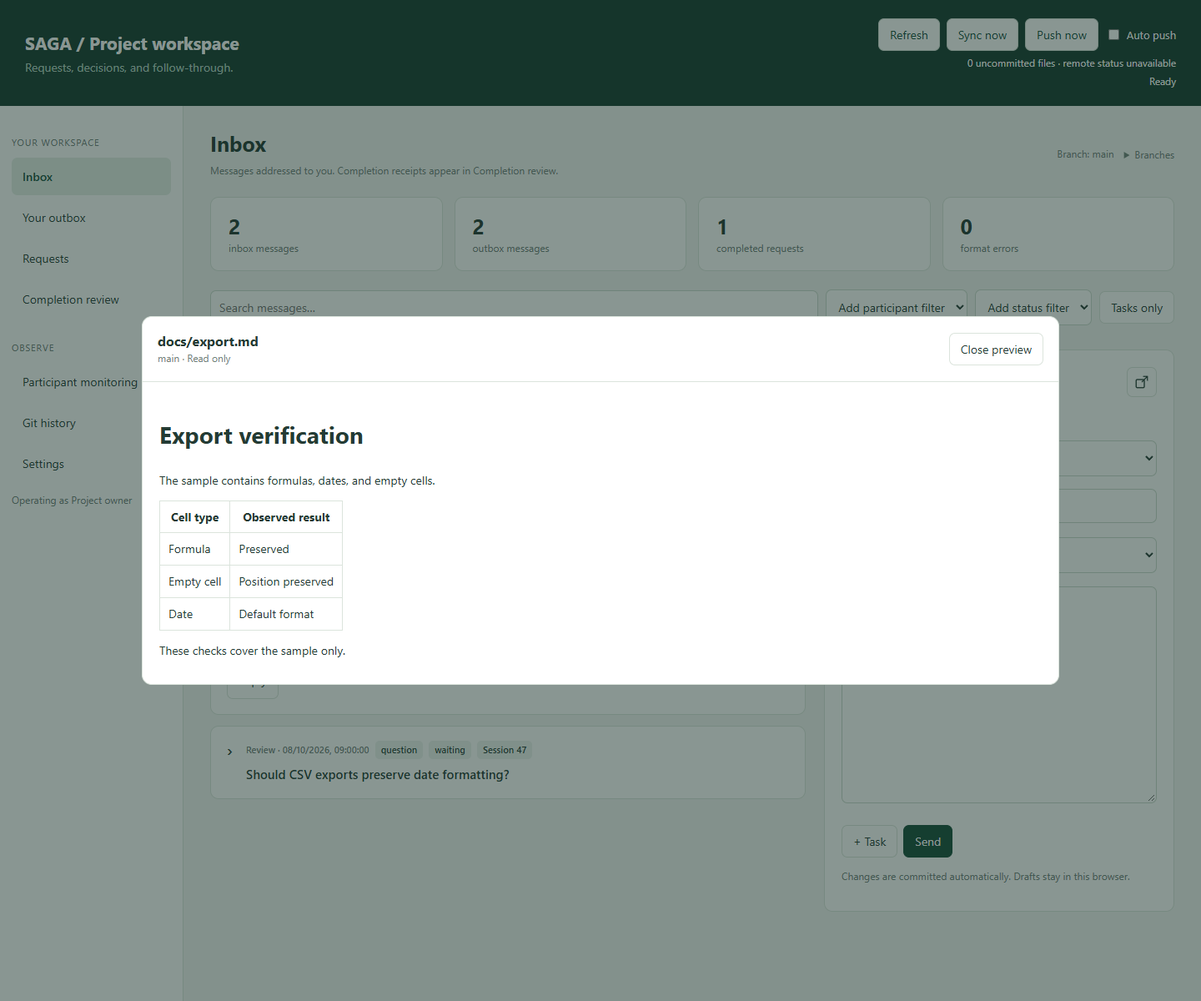
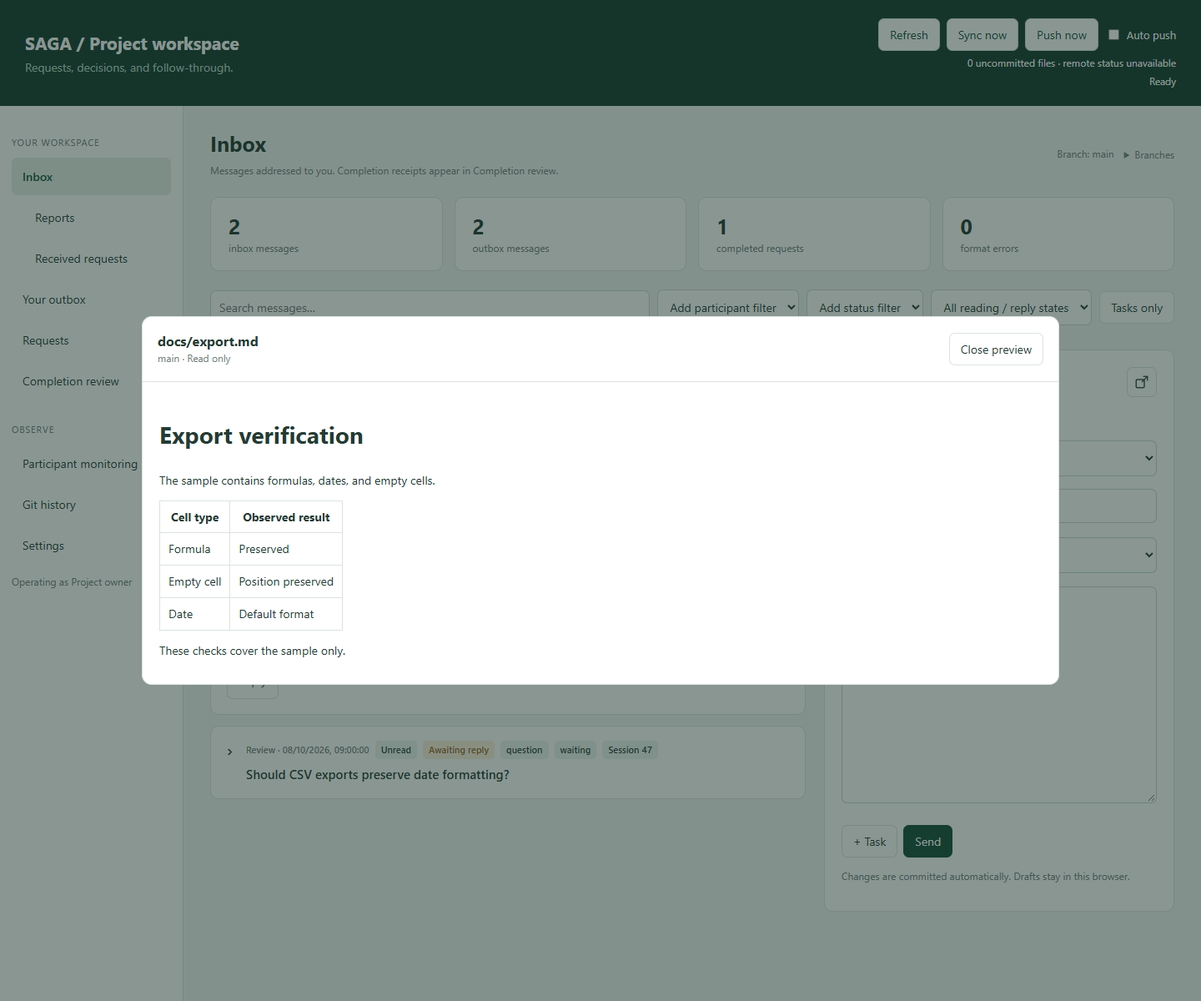
Add inbox report and request views with reading and reply states

diff --git a/src/dashboard.html b/src/dashboard.html
@@ -13,9 +13,9 @@ header button{color:var(--ink)}
 .participant-field{display:flex;flex-direction:column;gap:6px;font-size:12px}.participant-wide{grid-column:1/-1}.participant-row{align-items:end;padding:14px;border:1px solid var(--line);border-radius:8px}.participant-field input{width:100%}
 </style></head><body>
 <header><div><h1 id="workspace">SAGA</h1><p>Requests, decisions, and follow-through.</p></div><div class="header-controls"><div class="header-actions"><button id="refreshButton">Refresh</button><button id="syncButton">Sync now</button><button id="pushHeader">Push now</button><label id="gitControls" hidden><input id="autoPushHeader" type="checkbox"> Auto push</label></div><div id="gitStatus" class="sync" aria-live="polite"></div><div id="sync" class="sync" role="status">Connecting…</div></div></header>
-<div class="shell"><aside id="navigation"><p class="caption">Your workspace</p><button data-view="inbox">Inbox</button><button data-view="outbox">Your outbox</button><button data-view="requests">Requests</button><button data-view="approvals">Completion review</button><p class="caption" style="margin-top:28px">Observe</p><button data-view="monitor">Participant monitoring</button><button data-view="history">Git history</button><button data-view="settings">Settings</button><p class="hint" id="identity"></p></aside>
+<div class="shell"><aside id="navigation"><p class="caption">Your workspace</p><button data-view="inbox">Inbox</button><button data-inbox="report" style="padding-left:28px">Reports</button><button data-inbox="requests" style="padding-left:28px">Received requests</button><button data-view="outbox">Your outbox</button><button data-view="requests">Requests</button><button data-view="approvals">Completion review</button><p class="caption" style="margin-top:28px">Observe</p><button data-view="monitor">Participant monitoring</button><button data-view="history">Git history</button><button data-view="settings">Settings</button><p class="hint" id="identity"></p></aside>
 <main><div class="heading"><div><h2 id="title">Inbox</h2><div class="muted" id="subtitle"></div></div><div class="branch-position"><span id="branch" class="muted"></span><details id="branchPanel"><summary id="branchSummary">Branches</summary><div class="branch-popover"><p class="hint" id="branchRefreshHint">Compared with your current inbox.</p><button id="checkBranches">Fetch and check branches</button><div id="branchList"></div></div></details></div></div><div id="notice" class="notice" role="alert"></div><div class="stats" id="stats"></div>
-<div class="toolbar" id="toolbar"><input id="search" placeholder="Search messages…" aria-label="Search"><select id="participant" aria-label="Filter participant"></select><select id="status" aria-label="Filter status"><option value="all">All statuses</option><option>untriaged</option><option>open</option><option>in_progress</option><option>waiting</option><option>blocked</option><option>done</option></select><button id="taskFilter">Tasks only</button><div id="filterTags" class="filter-tags"></div></div>
+<div class="toolbar" id="toolbar"><input id="search" placeholder="Search messages…" aria-label="Search"><select id="participant" aria-label="Filter participant"></select><select id="status" aria-label="Filter status"><option value="all">All statuses</option><option>untriaged</option><option>open</option><option>in_progress</option><option>waiting</option><option>blocked</option><option>done</option></select><select id="attention" aria-label="Filter reading and replies"><option value="all">All reading / reply states</option><option value="unread">Unread</option><option value="read">Read</option><option value="unanswered">Awaiting reply</option><option value="replied">Replied</option></select><button id="taskFilter">Tasks only</button><div id="filterTags" class="filter-tags"></div></div>
 <div class="columns" id="columns"><section id="feed"></section><section class="card compose" id="compose" inert><div id="composeHandle" class="compose-heading"><h3>New message</h3><button id="detachCompose" aria-label="Float composer" title="Float composer"><svg viewBox="0 0 24 24" width="18" height="18" aria-hidden="true" fill="none" stroke="currentColor" stroke-width="1.8"><rect x="3" y="8" width="13" height="13" rx="2"/><path d="M14 3h7v7M21 3l-9 9"/></svg></button></div><p class="hint" id="replyHint">Send from your configured identity.</p><select id="recipient" aria-label="Recipient"></select><input id="subject" placeholder="Subject" maxlength="200" aria-label="Subject"><div class="pair"><select id="kind" aria-label="Message kind"><option>request</option><option>question</option><option>decision</option><option>report</option><option>reply</option></select><select id="priority" aria-label="Priority"><option>normal</option><option>low</option><option>high</option><option>urgent</option></select></div><textarea id="message" placeholder="Write a message…&#10;&#10;- [ ] A task to follow" aria-label="Message body"></textarea><div class="actions"><button id="task">+ Task</button><button id="cancelReply" hidden>Cancel reply</button><button class="primary" id="send">Send</button></div><p class="hint" id="savePolicy"></p></section></div></main></div>
 <dialog id="fileViewer" aria-label="File preview"><div class="file-heading"><div><h3 id="fileTitle"></h3><span id="fileContext" class="hint"></span></div><button id="closeFile">Close preview</button></div><div id="fileContent" class="body"></div></dialog>
 <dialog id="editor"><h3>Edit your message</h3><p class="hint">Editing invalidates any completion receipt for an older version.</p><textarea id="editBody" aria-label="Edit message"></textarea><div class="actions"><button id="cancelEdit">Cancel</button><button id="saveEdit" class="primary">Save and commit</button></div></dialog>
@@ -35,11 +35,13 @@ function notice(s){$('notice').textContent=s;$('notice').style.display=s?'block'
 function choices(id,people,all=false){const old=$(id).value;$(id).innerHTML=(all?'<option value="all">All participants</option>':'')+people.map(p=>`<option value="${esc(p.id)}">${esc(p.label)}</option>`).join('');if([...$(id).options].some(o=>o.value===old))$(id).value=old;}
 function body(text,record=null,editable=false){return renderMarkdown(text,record,editable);}
 
-let messageSeen={};
+let messageSeen={},messageRead={},inboxKind='all';
 function seenKey(context){return 'saga:seen:'+JSON.stringify([context.workspaceRoot,context.config.identity]);}
-function trackMessages(context){if(!context.config)return;const key=seenKey(context);try{const stored=localStorage.getItem(key);messageSeen=stored?JSON.parse(stored):Object.fromEntries(context.messages.filter(r=>r.meta.to===context.config.identity).map(r=>[r.meta.id,r.sha256]));if(!stored)localStorage.setItem(key,JSON.stringify(messageSeen));}catch{messageSeen={};}}
-function messageCard(r,open=false,nested=false){const m=r.meta,own=m.from===state.config.identity,editable=own&&view!=='monitor',replies=nested?[]:state.messages.filter(x=>x.meta.reply_to===m.id&&x.meta.kind!=='receipt');return `<details class="card message-card" data-message-id="${esc(m.id)}" ${open?'open':''}><summary><div class="summary-content"><div class="meta-row"><span class="tag">${esc(nested||view==='monitor'?label(m.from)+' → '+label(m.to):view==='requests'?(own?'To '+label(m.to):'From '+label(m.from)):view==='inbox'?label(m.from):label(m.to))} · ${date(m.created)}</span>${m.to===state.config.identity&&messageSeen[m.id]!==r.sha256?'<span class="badge warn" data-unread>'+(messageSeen[m.id]?'Updated':'New')+'</span>':''}<span class="badge">${esc(m.kind)}</span><span class="badge">${esc(m.status.replaceAll('_',' '))}</span>${m.session?'<span class="badge">Session '+esc(m.session)+'</span>':''}${m.priority!=='normal'?'<span class="badge warn">'+esc(m.priority)+'</span>':''}</div><div class="message-title">${inline(m.title)}</div></div></summary><div class="body">${body(r.body,r,editable)}<p class="hint">${esc(m.id)}${m.reply_to?' · reply to '+esc(m.reply_to):''}</p><div class="actions">${editable?`<button data-edit="${esc(m.id)}">Edit</button><select data-status="${esc(m.id)}" aria-label="Message status">${['untriaged','open','in_progress','waiting','blocked','done'].map(s=>'<option '+(s===m.status?'selected':'')+'>'+s+'</option>').join('')}</select><button class="danger" data-close="${esc(m.id)}">Close and remove</button>`:m.to===state.config.identity&&view!=='monitor'?`<button data-reply="${esc(m.id)}">Reply</button>`:''}</div>${replies.length?'<div class="replies"><p class="caption">Replies</p>'+replies.map(x=>messageCard(x,false,true)).join('')+'</div>':''}</div></details>`;}
-function matches(r){const q=$('search').value.toLowerCase();const person=view==='inbox'?r.meta.from:view==='outbox'?r.meta.to:view==='requests'?(r.meta.to===state.config.identity?r.meta.from:r.meta.to):null;return (!participantFilters.size||(person?participantFilters.has(person):[r.meta.from,r.meta.to].some(id=>participantFilters.has(id))))&&(!statusFilters.size||statusFilters.has(r.meta.status))&&(!tasksOnly||/^\s*(?:[-*+]|\d+[.)]) \[[ xX]\]/m.test(r.body))&&(r.meta.title+' '+r.body+' '+r.meta.id+' '+(r.meta.session||'')).toLowerCase().includes(q);}
+function trackMessages(context){if(!context.config)return;const key=seenKey(context);try{messageRead=JSON.parse(localStorage.getItem(key+':read')||'{}');const stored=localStorage.getItem(key);messageSeen=stored?JSON.parse(stored):Object.fromEntries(context.messages.filter(r=>r.meta.to===context.config.identity).map(r=>[r.meta.id,r.sha256]));if(!stored)localStorage.setItem(key,JSON.stringify(messageSeen));}catch{messageSeen={};}}
+function hasReply(r){return state.messages.some(x=>x.meta.reply_to===r.meta.id&&x.meta.from===r.meta.to&&x.meta.to===r.meta.from&&x.meta.kind!=='receipt');}
+function isRead(r){return messageRead[r.meta.id]===r.sha256;}
+function messageCard(r,open=false,nested=false){const m=r.meta,own=m.from===state.config.identity,editable=own&&view!=='monitor',replies=nested?[]:state.messages.filter(x=>x.meta.reply_to===m.id&&x.meta.kind!=='receipt');return `<details class="card message-card" data-message-id="${esc(m.id)}" ${open?'open':''}><summary><div class="summary-content"><div class="meta-row"><span class="tag">${esc(nested||view==='monitor'?label(m.from)+' → '+label(m.to):view==='requests'?(own?'To '+label(m.to):'From '+label(m.from)):view==='inbox'?label(m.from):label(m.to))} · ${date(m.created)}</span>${m.to===state.config.identity&&messageSeen[m.id]!==r.sha256?'<span class="badge warn" data-unread>'+(messageSeen[m.id]?'Updated':'New')+'</span>':''}${m.to===state.config.identity?'<span class="badge" data-reading>'+ (isRead(r)?'Read':'Unread')+'</span>':''}${hasReply(r)?'<span class="badge" data-replied>Replied</span>':['request','question'].includes(m.kind)?'<span class="badge warn">Awaiting reply</span>':''}<span class="badge">${esc(m.kind)}</span><span class="badge">${esc(m.status.replaceAll('_',' '))}</span>${m.session?'<span class="badge">Session '+esc(m.session)+'</span>':''}${m.priority!=='normal'?'<span class="badge warn">'+esc(m.priority)+'</span>':''}</div><div class="message-title">${inline(m.title)}</div></div></summary><div class="body">${body(r.body,r,editable)}<p class="hint">${esc(m.id)}${m.reply_to?' · reply to '+esc(m.reply_to):''}</p><div class="actions">${editable?`<button data-edit="${esc(m.id)}">Edit</button><select data-status="${esc(m.id)}" aria-label="Message status">${['untriaged','open','in_progress','waiting','blocked','done'].map(s=>'<option '+(s===m.status?'selected':'')+'>'+s+'</option>').join('')}</select><button class="danger" data-close="${esc(m.id)}">Close and remove</button>`:m.to===state.config.identity&&view!=='monitor'?`<button data-reply="${esc(m.id)}">Reply</button>`:''}</div>${replies.length?'<div class="replies"><p class="caption">Replies</p>'+replies.map(x=>messageCard(x,false,true)).join('')+'</div>':''}</div></details>`;}
+function matches(r){const q=$('search').value.toLowerCase();const person=view==='inbox'?r.meta.from:view==='outbox'?r.meta.to:view==='requests'?(r.meta.to===state.config.identity?r.meta.from:r.meta.to):null;const attention=$('attention').value;return (attention==='all'||attention==='read'&&r.meta.to===state.config.identity&&isRead(r)||attention==='unread'&&r.meta.to===state.config.identity&&!isRead(r)||attention==='replied'&&hasReply(r)||attention==='unanswered'&&['request','question'].includes(r.meta.kind)&&!hasReply(r))&&(!participantFilters.size||(person?participantFilters.has(person):[r.meta.from,r.meta.to].some(id=>participantFilters.has(id))))&&(!statusFilters.size||statusFilters.has(r.meta.status))&&(!tasksOnly||/^\s*(?:[-*+]|\d+[.)]) \[[ xX]\]/m.test(r.body))&&(r.meta.title+' '+r.body+' '+r.meta.id+' '+(r.meta.session||'')).toLowerCase().includes(q);}
 function renderFilters(){$('filterTags').innerHTML=[...participantFilters].map(id=>'<button data-filter="participant" data-value="'+esc(id)+'">'+esc(label(id))+' ×</button>').join('')+[...statusFilters].map(id=>'<button data-filter="status" data-value="'+esc(id)+'">'+esc(id.replaceAll('_',' '))+' ×</button>').join('')+((participantFilters.size||statusFilters.size)?'<button id="clearFilters">Clear filters</button>':'');}
 function renderBranches(){const list=[...(state.branches||[])].sort((a,b)=>((b.newMessages||0)+(b.updatedMessages||0))-((a.newMessages||0)+(a.updatedMessages||0))||a.name.localeCompare(b.name));const total=list.reduce((n,b)=>n+(b.newMessages||0)+(b.updatedMessages||0),0);$('branchSummary').textContent=total?total+' updates on other branches':'Branches';$('branchSummary').classList.toggle('has-updates',total>0);$('branchRefreshHint').textContent=state.branchRefresh?.error?'Refresh failed: '+state.branchRefresh.error:state.branchRefresh?.last?'Last remote check: '+new Date(state.branchRefresh.last).toLocaleString('en-GB'):'Remote results reflect the last fetch. Compared with your current inbox.';$('branchList').innerHTML=list.map(b=>'<div class="branch-row"><span><strong>'+esc(b.name)+'</strong> · '+(b.error?esc(b.error):b.newMessages+' new · '+b.updatedMessages+' updated')+'</span><button data-switch-branch="'+esc(b.ref)+'" '+(b.error?'disabled':'')+'>Switch</button></div>').join('')||'<p class="hint">No other discovered mailbox branches.</p>';}
 
@@ -48,7 +50,7 @@ function render(){
  $('branchPanel').hidden=!state.config.discoverBranches;$('pushHeader').disabled=false;$('navigation').hidden=false;$('gitControls').hidden=false;const g=state.git;if(g){$('gitStatus').textContent=g.changedFiles+' uncommitted files · '+(g.ahead===null?'remote status unavailable':g.ahead+' commits to push · '+g.behind+' behind')+(state.publicationHold?(g.ahead===0?' · auto push paused':' · publication paused'):'');$('autoPushHeader').checked=state.config.autoPush;}
  const c=state.config,me=c.identity;$('savePolicy').textContent=(c.autoCommit?'Changes are committed automatically.':'Changes are saved to files; commit them when ready.')+' Drafts stay in this browser.';$('saveEdit').textContent=c.autoCommit?'Save and commit':'Save changes';document.title='SAGA · '+c.title;$('workspace').textContent='SAGA / '+c.title;$('identity').textContent='Operating as '+label(me);$('branch').textContent='Branch: '+state.branch;
  const titles={requests:['Requests','Standalone requests and questions addressed to you or sent by you. Reports remain in Inbox and Your outbox.'],inbox:['Inbox','Messages addressed to you. Completion receipts appear in Completion review.'],outbox:['Your outbox','You own these requests and decide when to remove them.'],approvals:['Completion review','Receipts certify an exact message version. Review the work before cleanup.'],monitor:['Participant monitoring','Read-only exchanges between other participants.'],history:['Git history','Inspect mailbox snapshots before or after a commit.'],settings:['Settings','Configure this workspace and every automatic action.']};
- $('title').textContent=titles[view][0];$('subtitle').textContent=titles[view][1];document.querySelectorAll('[data-view]').forEach(b=>b.classList.toggle('active',b.dataset.view===view));
+ $('title').textContent=view==='inbox'&&inboxKind!=='all'?(inboxKind==='report'?'Reports':'Received requests'):titles[view][0];document.querySelectorAll('[data-inbox]').forEach(b=>b.classList.toggle('active',view==='inbox'&&b.dataset.inbox===inboxKind));$('subtitle').textContent=titles[view][1];document.querySelectorAll('[data-view]').forEach(b=>b.classList.toggle('active',b.dataset.view===view&&(view!=='inbox'||inboxKind==='all')));
  choices('participant',c.participants,true);$('participant').options[0].textContent='Add participant filter';$('status').options[0].textContent='Add status filter';renderFilters();renderBranches();choices('recipient',c.participants.filter(p=>p.id!==me));const outgoing=state.messages.filter(r=>r.meta.from===me&&r.meta.kind!=='receipt'),incoming=state.messages.filter(r=>r.meta.to===me&&r.meta.kind!=='receipt'),ready=state.candidates.filter(r=>r.eligible);
  document.querySelector('[data-view="monitor"]').hidden=!c.showMonitoring;
  $('stats').innerHTML=[[incoming.length,'inbox messages'],[outgoing.length,'outbox messages'],[ready.length,'completed requests'],[state.errors.length,'format errors']].map(([n,t])=>`<div class="stat"><strong>${n}</strong><span class="muted">${t}</span></div>`).join('');
@@ -57,7 +59,7 @@ function render(){
  if(view==='settings'){$('feed').innerHTML=renderSettings(c);return;}
  if(view==='approvals'){$('feed').innerHTML='<p class="hint">Cleanup policy: '+esc(c.cleanup)+'. Each receipt includes the agent’s completion summary.</p>'+state.candidates.map(a=>`<details class="card" open><summary><span class="tag">${esc(label(a.receipt.meta.from))} · ${date(a.receipt.meta.created)}</span>${inline(a.request?.meta.title||a.receipt.meta.title)} <span class="badge ${a.eligible?'':'warn'}">${a.eligible?'Ready for cleanup':esc(a.reason)}</span></summary><div class="body"><p class="caption">Completion summary</p>${body(a.receipt.body)}${a.request?'<details><summary>Original request</summary>'+body(a.request.body)+'</details>':''}<div class="actions">${a.eligible&&c.cleanup!=='off'?'<button class="primary" data-approve="'+esc(a.receipt.meta.id)+'">Approve and clean up</button>':''}<button data-dismiss="${esc(a.receipt.meta.id)}">Dismiss receipt</button></div></div></details>`).join('');if(!state.candidates.length)$('feed').innerHTML+='<div class="card empty">No completion receipts yet.</div>';return;}
  if(view==='history'){renderHistory();return;}
- const records=(view==='inbox'?incoming:view==='outbox'?outgoing:view==='requests'?state.messages.filter(r=>['request','question'].includes(r.meta.kind)&&(r.meta.to===me||r.meta.from===me)):state.messages.filter(r=>r.meta.from!==me&&r.meta.to!==me)).filter(matches).sort((a,b)=>b.meta.created.localeCompare(a.meta.created));
+ const records=(view==='inbox'?incoming.filter(r=>inboxKind==='all'||inboxKind==='report'&&r.meta.kind==='report'||inboxKind==='requests'&&['request','question'].includes(r.meta.kind)):view==='outbox'?outgoing:view==='requests'?state.messages.filter(r=>['request','question'].includes(r.meta.kind)&&(r.meta.to===me||r.meta.from===me)):state.messages.filter(r=>r.meta.from!==me&&r.meta.to!==me)).filter(matches).sort((a,b)=>b.meta.created.localeCompare(a.meta.created));
  const pages=Math.max(1,Math.ceil(records.length/c.pageSize));pageIndex=Math.min(pageIndex,pages-1);
  $('feed').innerHTML=records.slice(pageIndex*c.pageSize,(pageIndex+1)*c.pageSize).map((r,i)=>messageCard(r,i<c.defaultExpanded)).join('')+(records.length>c.pageSize?'<div class="actions"><button id="previousPage" '+(pageIndex===0?'disabled':'')+'>Previous</button><span class="hint">Page '+(pageIndex+1)+' of '+pages+' · '+records.length+' messages</span><button id="nextPage" '+(pageIndex===pages-1?'disabled':'')+'>Next</button></div>':'');if(!$('feed').innerHTML)$('feed').innerHTML='<div class="card empty">No messages match this view.</div>';
 }
@@ -67,7 +69,8 @@ function scheduleRefresh(){clearTimeout(refreshTimer);if(state?.config?.refreshS
 async function mutate(route,data){if(busy)return false;busy=true;$('send').disabled=true;notice('');try{const result=await api(route,data);historyState=null;if(result.sync?.state==='error')notice('Saved locally. Synchronization failed: '+result.sync.message);return true;}catch(e){notice(e.message);return false;}finally{busy=false;$('send').disabled=false;await refresh(true);}}
 function confirmAction(title,text,fn){confirmation=fn;$('confirmTitle').textContent=title;$('confirmText').textContent=text;$('confirmation').showModal();}
 $('cancelConfirm').onclick=()=>{$('confirmation').close();confirmation=null;};$('acceptConfirm').onclick=()=>{$('confirmation').close();const fn=confirmation;confirmation=null;fn?.();};
-$('navigation').onclick=async e=>{const b=e.target.closest('[data-view]');if(!b)return;view=b.dataset.view;pageIndex=0;render();if(view==='history'){try{historyState=await api('history',{});if(view==='history')renderHistory();}catch(e){notice(e.message);}}};
+$('navigation').onclick=async e=>{const b=e.target.closest('[data-view],[data-inbox]');if(!b)return;inboxKind=b.dataset.inbox||'all';view=b.dataset.inbox?'inbox':b.dataset.view;pageIndex=0;render();if(view==='history'){try{historyState=await api('history',{});if(view==='history')renderHistory();}catch(e){notice(e.message);}}};
+$('attention').onchange=()=>{pageIndex=0;render();};
 $('search').oninput=()=>{pageIndex=0;render();};$('participant').onchange=()=>{if($('participant').value!=='all')participantFilters.add($('participant').value);$('participant').value='all';pageIndex=0;render();};$('status').onchange=()=>{if($('status').value!=='all')statusFilters.add($('status').value);$('status').value='all';pageIndex=0;render();};$('taskFilter').onclick=()=>{tasksOnly=!tasksOnly;render();};
 $('filterTags').onclick=e=>{const b=e.target.closest('button');if(!b)return;if(b.id==='clearFilters'){participantFilters.clear();statusFilters.clear();}else (b.dataset.filter==='participant'?participantFilters:statusFilters).delete(b.dataset.value);pageIndex=0;render();};
 $('checkBranches').onclick=async()=>{if(busy)return;$('checkBranches').disabled=true;try{await api('branches',{fetch:true});await refresh(true);}catch(e){notice(e.message);}finally{$('checkBranches').disabled=false;}};
@@ -87,7 +90,7 @@ function clearReply(){replyTo=null;$('replyHint').textContent='Send from your co
 $('cancelReply').onclick=()=>{clearReply();saveDraft();};
 $('send').onclick=async()=>{const draft={text:$('message').value,title:$('subject').value,to:$('recipient').value,kind:$('kind').value,priority:$('priority').value,replyTo};saveDraft();const key=draftKey();localStorage.setItem(key+':last-send',JSON.stringify({...draft,savedAt:new Date().toISOString()}));const f=state.messages.find(r=>r.meta.from===state.config.identity&&r.meta.kind!=='receipt');if(await mutate('message',{to:draft.to,title:draft.title,text:draft.text,kind:draft.kind,priority:draft.priority,reply_to:draft.replyTo,version:f?.fileVersion??state.outboxVersion??null})){if($('message').value===draft.text&&$('subject').value===draft.title){$('message').value='';$('subject').value='';clearReply();localStorage.removeItem(key);}notice(state.config.autoPush?(state.git?.ahead===0?'Message published.':state.sync.state==='error'?'Message committed locally; automatic publication failed: '+state.sync.message:state.sync.message):state.config.autoCommit?'Message committed locally. Automatic push is off.':'Message saved to your outbox. Commit and push it to publish.');}};
 
-$('feed').addEventListener('click',e=>{const summary=e.target.closest('.message-card > summary');const card=summary?.parentElement;if(!card||!summary.querySelector('[data-unread]'))return;const record=state.messages.find(r=>r.meta.id===card.dataset.messageId);if(!record)return;messageSeen[record.meta.id]=record.sha256;localStorage.setItem(seenKey(state),JSON.stringify(messageSeen));card.querySelector(':scope > summary [data-unread]')?.remove();},true);
+$('feed').addEventListener('click',e=>{const summary=e.target.closest('.message-card > summary')||(e.target.closest('[data-reply]')?.closest('.message-card')?.querySelector(':scope > summary'));const card=summary?.parentElement;if(!card)return;const record=state.messages.find(r=>r.meta.id===card.dataset.messageId);if(!record||record.meta.to!==state.config.identity)return;messageRead[record.meta.id]=record.sha256;localStorage.setItem(seenKey(state)+':read',JSON.stringify(messageRead));summary.querySelector('[data-reading]').textContent='Read';messageSeen[record.meta.id]=record.sha256;localStorage.setItem(seenKey(state),JSON.stringify(messageSeen));card.querySelector(':scope > summary [data-unread]')?.remove();},true);
 $('feed').onclick=async e=>{const b=e.target.closest('button');if(!b)return;
  if(b.dataset.edit){editing=state.messages.find(r=>r.meta.id===b.dataset.edit);$('editBody').value=editing.body;$('editor').showModal();}
  if(b.dataset.close){const r=state.messages.find(r=>r.meta.id===b.dataset.close);confirmAction('Close and remove this message?','The message will leave your outbox. Git keeps its history. No recipient receipt is required for this owner action.',()=>mutate('update',{id:r.meta.id,sha256:r.sha256,delete:true}));}

diff --git a/README.md b/README.md
@@ -142,13 +142,13 @@ Choose the participant, write a concrete subject, and use type **request**. Desc
 
 ### Answer a blocking request
 
-Open **Requests** to see requests and questions sent by or addressed to you, apart from reports. Filter by a waiting or blocked status when useful. Expand the question and click **Reply** to state your decision. In this example, the owner accepts the default date format and specifies which acceptance check the reviewer should add. A reply does not by itself mark work completed or remove the original message; its owner closes it after the decision or work has been handled.
+Use **Reports** or **Received requests** under Inbox for the two common incoming views. **Received requests** includes requests and questions addressed to you. Open **Requests** to see requests and questions sent by or addressed to you, apart from reports. Filter by a waiting or blocked status when useful. Expand the question and click **Reply** to state your decision. In this example, the owner accepts the default date format and specifies which acceptance check the reviewer should add. A reply does not by itself mark work completed or remove the original message; its owner closes it after the decision or work has been handled.
 
 ![Answer a question awaiting a project decision](docs/screenshots/answer-request.png)
 
 ### Combine filters
 
-Add several participants or statuses to accumulate filter chips. Alternatives within one category are combined with OR; participant and status categories are combined with AND. Here the inbox includes Research or Review, and only messages waiting for an answer. Remove a chip individually or choose **Clear filters**. Text search and **Tasks only** further narrow the current view. Messages remain ordered by creation time.
+Add several participants or statuses to accumulate filter chips. Alternatives within one category are combined with OR; participant and status categories are combined with AND. Here the inbox includes Research or Review, and only messages waiting for an answer. Remove a chip individually or choose **Clear filters**. Text search and **Tasks only** further narrow the current view. Messages remain ordered by creation time. **All reading / reply states** filters Read, Unread, Awaiting reply, or Replied. Clicking a message title records its current version as read in this browser; automatic expansion does not. New or updated versions stay unread until you read them. A Replied badge requires a linked message from the original recipient back to its sender; it does not mean that the request is completed. Reading state stays local to the browser, while replies are shared through the mailboxes.
 
 ![Combine participant and status filters](docs/screenshots/filters.png)
 
